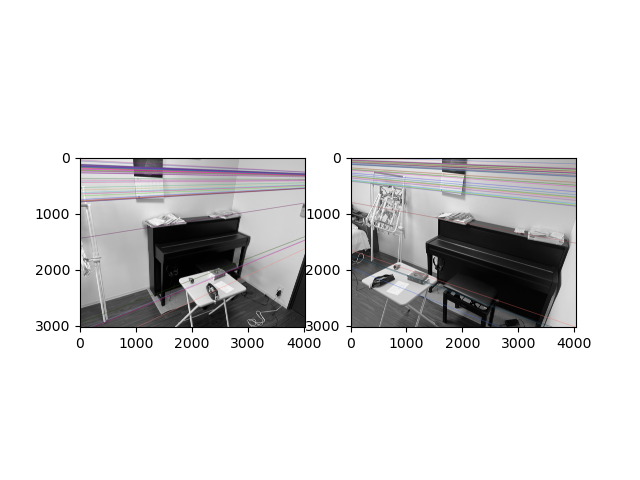
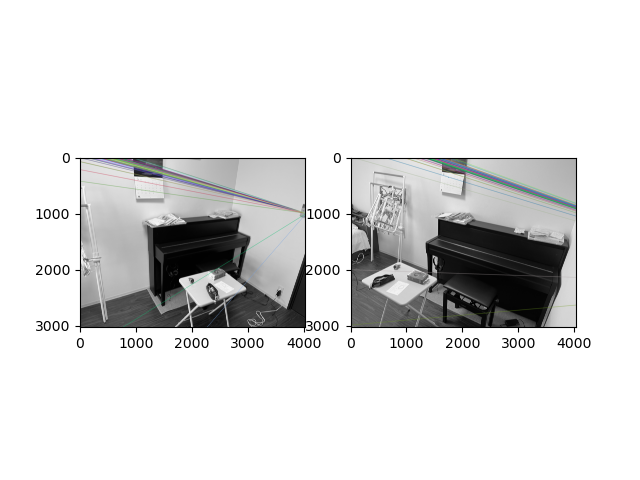
crt branch

diff --git a/exercise0613/recovery.py b/exercise0613/recovery.py
@@ -1,0 +1,116 @@
+import numpy as np
+import cv2
+import matplotlib.pyplot as plt
+
+def rectify_pair(image_left, image_right, viz=False):
+    sift = cv2.SIFT_create()
+
+    kp1, des1 = sift.detectAndCompute(image_left, None)
+    kp2, des2 = sift.detectAndCompute(image_right, None)
+
+    FLANN_INDEX_KDTREE = 0
+    index_params = dict(algorithm=FLANN_INDEX_KDTREE, trees=5)
+    search_params = dict(checks=50)
+
+    flann = cv2.FlannBasedMatcher(index_params, search_params)
+
+    matches = flann.knnMatch(des1, des2, k=2)
+
+    # store all the good matches as per Lowe's ratio test
+    good = []
+    for m, n in matches:
+        if m.distance < 0.8 * n.distance:
+            good.append(m)
+
+    src_pts = np.float32([kp1[m.queryIdx].pt for m in good])
+    dst_pts = np.float32([kp2[m.trainIdx].pt for m in good])
+
+    # find the fundamental matrix
+    F, mask = cv2.findFundamentalMat(src_pts, dst_pts, cv2.RANSAC, 3, 0.99)
+    src_pts = src_pts.flatten()
+    dst_pts = dst_pts.flatten()
+    print(image_left.shape[:2])
+
+    # rectify the images, produce the homographies: H_left and H_right
+    retval, H_left, H_right = cv2.stereoRectifyUncalibrated(
+        src_pts, dst_pts, F, image_left.shape[:2])
+
+    return F, H_left, H_right
+
+
+def drawlines(img1, img2,num):
+    # img1はimg2上の点に対応するエピポーラ線を描画する画像でlinesはそれに対応するエピポーラ線
+    r, c = img1.shape
+    img1 = cv2.cvtColor(img1, cv2.COLOR_GRAY2BGR)
+    img2 = cv2.cvtColor(img2, cv2.COLOR_GRAY2BGR)
+    sift = cv2.SIFT_create()
+    kp1, des1 = sift.detectAndCompute(img1, None)
+    kp2, des2 = sift.detectAndCompute(img2, None)
+    FLANN_INDEX_KDTREE = 1
+    index_params = dict(algorithm=FLANN_INDEX_KDTREE, trees=5)
+    search_params = dict(checks=50)
+    flann = cv2.FlannBasedMatcher(index_params, search_params)
+    matches = flann.knnMatch(des1, des2, k=2)
+    pts1 = []
+    pts2 = []
+
+    for i, (m, n) in enumerate(matches):
+        if m.distance < 0.8*n.distance:
+            pts2.append(kp2[m.trainIdx].pt)
+            pts1.append(kp1[m.queryIdx].pt)
+    pts1 = np.int32(pts1)
+    pts2 = np.int32(pts2)
+    F, mask = cv2.findFundamentalMat(pts1, pts2, cv2.FM_LMEDS)
+    # inlier pointsだけを使用
+    pts1 = pts1[mask.ravel() == 1]
+    pts2 = pts2[mask.ravel() == 1]
+    lines1 = cv2.computeCorrespondEpilines(pts2.reshape(-1, 1, 2), 2, F)
+    lines1 = lines1.reshape(-1, 3)
+    lines2 = cv2.computeCorrespondEpilines(pts1.reshape(-1, 1, 2), 1, F)
+    lines2 = lines2.reshape(-1, 3)
+    for r, pt1, pt2 in zip(lines1, pts1, pts2):
+        color = tuple(np.random.randint(0, 255, 3).tolist())
+        x0, y0 = map(int, [0, -r[2]/r[1]])
+        x1, y1 = map(int, [c, -(r[2]+r[0]*c)/r[1]])
+        img3 = cv2.line(img1, (x0, y0), (x1, y1), color,
+                        thickness=3)  # epilineを引く
+    for r, pt1, pt2 in zip(lines2, pts2, pts1):
+        color = tuple(np.random.randint(0, 255, 3).tolist())
+        x0, y0 = map(int, [0, -r[2]/r[1]])
+        x1, y1 = map(int, [c, -(r[2]+r[0]*c)/r[1]])
+        img5 = cv2.line(img2, (x0, y0), (x1, y1), color,
+                        thickness=3)  # epilineを引く
+    plt.subplot(121), plt.imshow(img5)
+    plt.subplot(122), plt.imshow(img3)
+    plt.savefig(f"/Users/hayashidekazuyuki/Desktop/Git_Win_Air/class_CV/exercise0613/results/test{num}.png")
+    plt.close()
+    return img3, img5
+
+left_path="exercise0606/images/ex0606left10.jpg"
+right_path="exercise0606/images/ex0606right10.jpg"
+
+
+
+image_left=cv2.imread(left_path)
+image_left=cv2.cvtColor(image_left, cv2.COLOR_BGR2GRAY)
+image_right=cv2.imread(right_path)
+image_right=cv2.cvtColor(image_right, cv2.COLOR_BGR2GRAY)
+drawlines(image_left,image_right,1)
+print("result1.png renewed")
+
+F,H_left,H_right=rectify_pair(image_left,image_right)
+print(image_right.shape,H_right.shape)
+image_left=cv2.warpPerspective(image_left,H_left,image_left.shape[:2])
+image_right=cv2.warpPerspective(image_right,H_right,image_right.shape[:2])
+drawlines(image_left,image_right,2)
+print("result2.png renewed")
+
+print(H_left,H_right)
+cv2.imwrite("exercise0613/results/left.png",image_left)
+cv2.imwrite("exercise0613/results/right.png",image_right)
+# image_left=cv2.cvtColor(image_left,cv2.COLOR_BGR2GRAY)
+# image_right=cv2.cvtColor(image_right,cv2.COLOR_BGR2GRAY)
+stereo = cv2.StereoBM_create(numDisparities=16, blockSize=15)
+disparity = stereo.compute(image_left[:2300,800:],image_right[:2300,800:])
+plt.imshow(disparity,'gray')
+plt.show()

diff --git a/exercise0613/ex0613_2.py b/exercise0613/ex0613_2.py
@@ -1,0 +1,83 @@
+import numpy as np
+import cv2
+import matplotlib.pyplot as plt
+
+def matching(img1,img2):
+    sift = cv2.SIFT_create()
+
+    kp1, des1 = sift.detectAndCompute(img1, None)
+    kp2, des2 = sift.detectAndCompute(img2, None)
+    
+    FLANN_INDEX_KDTREE = 1
+    index_params = dict(algorithm=FLANN_INDEX_KDTREE, trees=5)
+    search_params = dict(checks=50)
+    flann = cv2.FlannBasedMatcher(index_params, search_params)
+    matches = flann.knnMatch(des1, des2, k=2)
+    pts1 = []
+    pts2 = []
+
+    for i, (m, n) in enumerate(matches):
+        if m.distance < 0.7*n.distance:
+            pts2.append(kp2[m.trainIdx].pt)
+            pts1.append(kp1[m.queryIdx].pt)
+    pts1 = np.int32(pts1)
+    pts2 = np.int32(pts2)
+    F, mask = cv2.findFundamentalMat(pts1, pts2, cv2.FM_LMEDS)
+    # inlier pointsだけを使用
+    pts1 = pts1[mask.ravel() == 1]
+    pts2 = pts2[mask.ravel() == 1]
+
+    return pts1,pts2,F,mask
+
+def drawlines(img1,img2,pts1,pts2):
+    r,c=img1.shape
+    lines = cv2.computeCorrespondEpilines(pts2.reshape(-1, 1, 2), 2, F)
+    lines = lines.reshape(-1, 3)
+    for r, pt1, pt2 in zip(lines, pts1, pts2):
+        color = tuple(np.random.randint(0, 255, 3).tolist())
+        x0, y0 = map(int, [0, -r[2]/r[1]])
+        x1, y1 = map(int, [c, -(r[2]+r[0]*c)/r[1]])
+        img3 = cv2.line(img1, (x0, y0), (x1, y1), color,
+                        thickness=3)  # epilineを引く
+    return img3
+
+# 画像の読み込み
+left_path="exercise0606/images/ex0606left10.jpg"
+right_path="exercise0606/images/ex0606right10.jpg"
+
+image_left=cv2.imread(left_path)
+image_left=cv2.cvtColor(image_left, cv2.COLOR_BGR2GRAY)
+image_right=cv2.imread(right_path)
+image_right=cv2.cvtColor(image_right, cv2.COLOR_BGR2GRAY)
+
+# 特徴点抽出など
+pts1,pts2,F,mask=matching(image_left,image_right)
+print(F)
+image_left_before_rect=drawlines(image_left,image_right,pts1,pts2)
+image_right_before_rect=drawlines(image_right,image_left,pts2,pts1)
+cv2.imwrite("test_l.png",image_left_before_rect)
+cv2.imwrite("test_r.png",image_right_before_rect)
+
+lines1 = cv2.computeCorrespondEpilines(pts2.reshape(-1, 1, 2), 2, F)
+lines1 = lines1.reshape(-1, 3)
+lines2 = cv2.computeCorrespondEpilines(pts1.reshape(-1, 1, 2), 1, F)
+lines2 = lines2.reshape(-1, 3)
+for r, pt1, pt2 in zip(lines1, pts1, pts2):
+    color = tuple(np.random.randint(0, 255, 3).tolist())
+    x0, y0 = map(int, [0, -r[2]/r[1]])
+    x1, y1 = map(int, [c, -(r[2]+r[0]*c)/r[1]])
+    img3 = cv2.line(img1, (x0, y0), (x1, y1), color,
+                    thickness=3)  # epilineを引く
+for r, pt1, pt2 in zip(lines2, pts2, pts1):
+    color = tuple(np.random.randint(0, 255, 3).tolist())
+    x0, y0 = map(int, [0, -r[2]/r[1]])
+    x1, y1 = map(int, [c, -(r[2]+r[0]*c)/r[1]])
+    img5 = cv2.line(img2, (x0, y0), (x1, y1), color,
+                    thickness=3)  # epilineを引く
+plt.subplot(121), plt.imshow(img5)
+plt.subplot(122), plt.imshow(img3)
+plt.savefig(f"/Users/hayashidekazuyuki/Desktop/Git_Win_Air/class_CV/exercise0613/results/test{num}.png")
+plt.close()
+
+
+# rectification前のepipolar lineを描画

diff --git a/exercise0613/ex0613.py b/exercise0613/ex0613.py
@@ -2,40 +2,40 @@ import numpy as np
 import cv2
 import matplotlib.pyplot as plt
 
-def rectify_pair(image_left, image_right, viz=False):
-    # Initiate SIFT detector
+def matching(img1,img2):
+    r, c = img1.shape
+    img1 = cv2.cvtColor(img1, cv2.COLOR_GRAY2BGR)
+    img2 = cv2.cvtColor(img2, cv2.COLOR_GRAY2BGR)
     sift = cv2.SIFT_create()
-
-    # find the keypoints and descriptors with SIFT
-    kp1, des1 = sift.detectAndCompute(image_left, None)
-    kp2, des2 = sift.detectAndCompute(image_right, None)
-
-    FLANN_INDEX_KDTREE = 0
+    kp1, des1 = sift.detectAndCompute(img1, None)
+    kp2, des2 = sift.detectAndCompute(img2, None)
+    FLANN_INDEX_KDTREE = 1
     index_params = dict(algorithm=FLANN_INDEX_KDTREE, trees=5)
     search_params = dict(checks=50)
-
     flann = cv2.FlannBasedMatcher(index_params, search_params)
-
     matches = flann.knnMatch(des1, des2, k=2)
+    pts1 = []
+    pts2 = []
 
-    # store all the good matches as per Lowe's ratio test
-    good = []
-    for m, n in matches:
-        if m.distance < 0.8 * n.distance:
-            good.append(m)
+    for i, (m, n) in enumerate(matches):
+        if m.distance < 0.8*n.distance:
+            pts2.append(kp2[m.trainIdx].pt)
+            pts1.append(kp1[m.queryIdx].pt)
+    pts1 = np.int32(pts1)
+    pts2 = np.int32(pts2)
+    F, mask = cv2.findFundamentalMat(pts1, pts2, cv2.FM_LMEDS)
+    # inlier pointsだけを使用
+    pts1 = pts1[mask.ravel() == 1]
+    pts2 = pts2[mask.ravel() == 1]
 
-    src_pts = np.float32([kp1[m.queryIdx].pt for m in good])
-    dst_pts = np.float32([kp2[m.trainIdx].pt for m in good])
+    return pts1,pts2,F,mask
 
-    # find the fundamental matrix
-    F, mask = cv2.findFundamentalMat(src_pts, dst_pts, cv2.RANSAC, 3, 0.99)
-    src_pts = src_pts.flatten()
-    dst_pts = dst_pts.flatten()
-    print(image_left.shape[:2])
+def rectify_pair(image_left, image_right, viz=False):
+    pts1,pts2,F,mask=matching(image_left,image_right)
 
     # rectify the images, produce the homographies: H_left and H_right
     retval, H_left, H_right = cv2.stereoRectifyUncalibrated(
-        src_pts, dst_pts, F, image_left.shape[:2])
+        pts1, pts2, F, image_left.shape[:2])
 
     return F, H_left, H_right
 """
@@ -137,8 +137,8 @@ print("result2.png renewed")
 print(H_left,H_right)
 cv2.imwrite("exercise0613/results/left.png",image_left)
 cv2.imwrite("exercise0613/results/right.png",image_right)
-image_left=cv2.cvtColor(image_left,cv2.COLOR_BGR2GRAY)
-image_right=cv2.cvtColor(image_right,cv2.COLOR_BGR2GRAY)
+# image_left=cv2.cvtColor(image_left,cv2.COLOR_BGR2GRAY)
+# image_right=cv2.cvtColor(image_right,cv2.COLOR_BGR2GRAY)
 stereo = cv2.StereoBM_create(numDisparities=16, blockSize=15)
 disparity = stereo.compute(image_left[:2300,800:],image_right[:2300,800:])
 plt.imshow(disparity,'gray')
